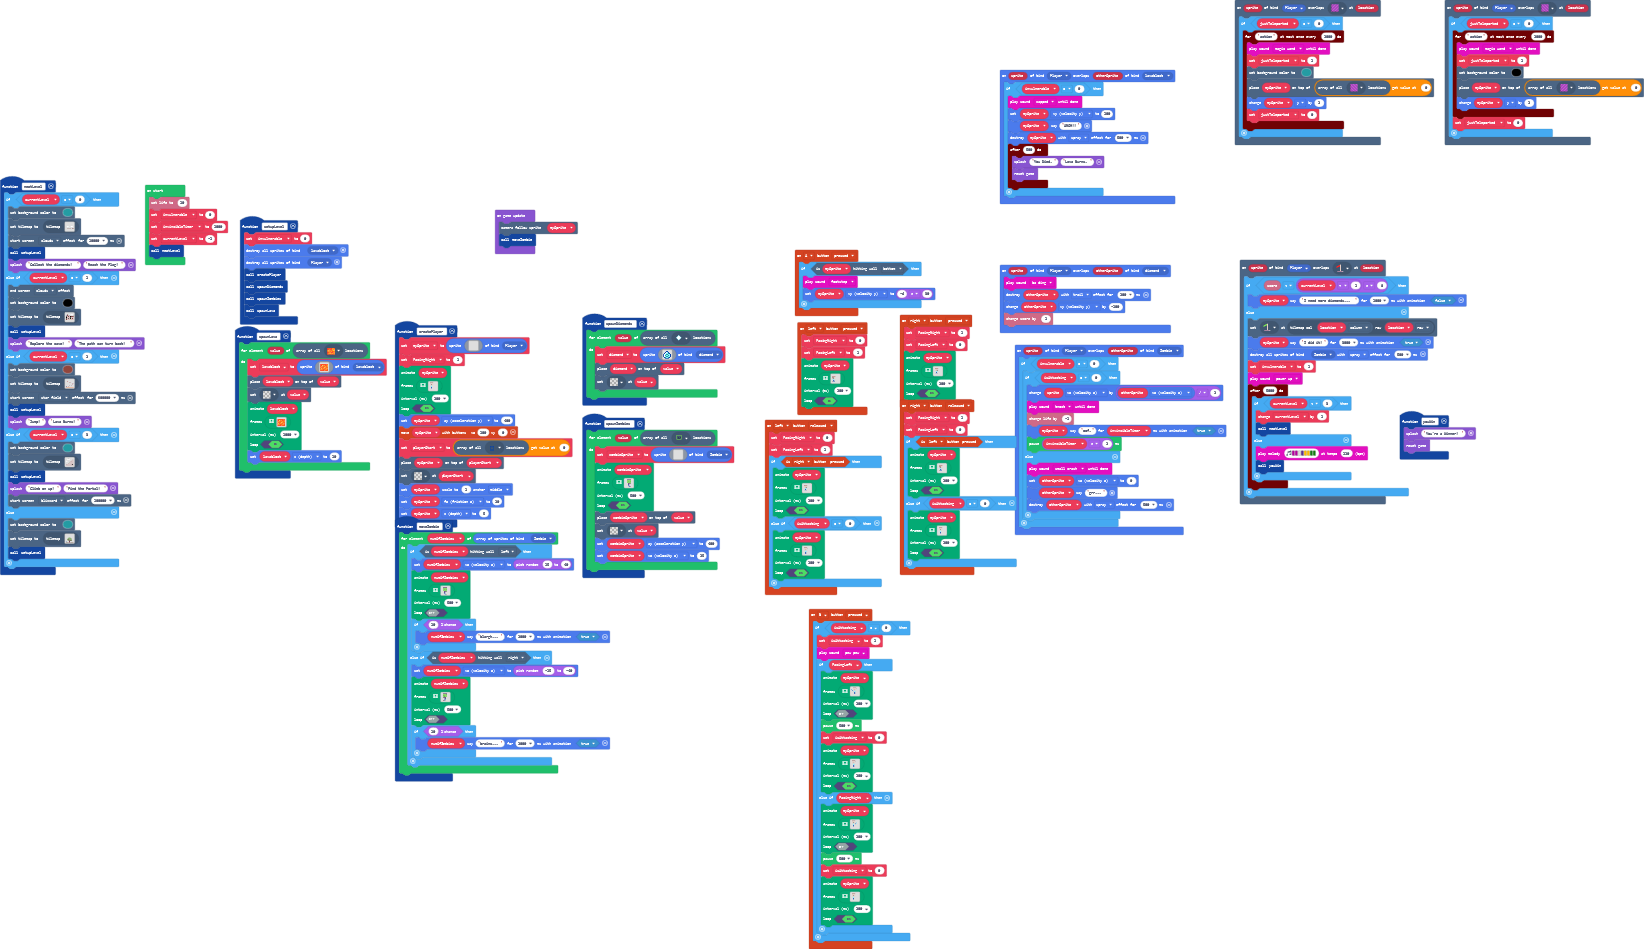
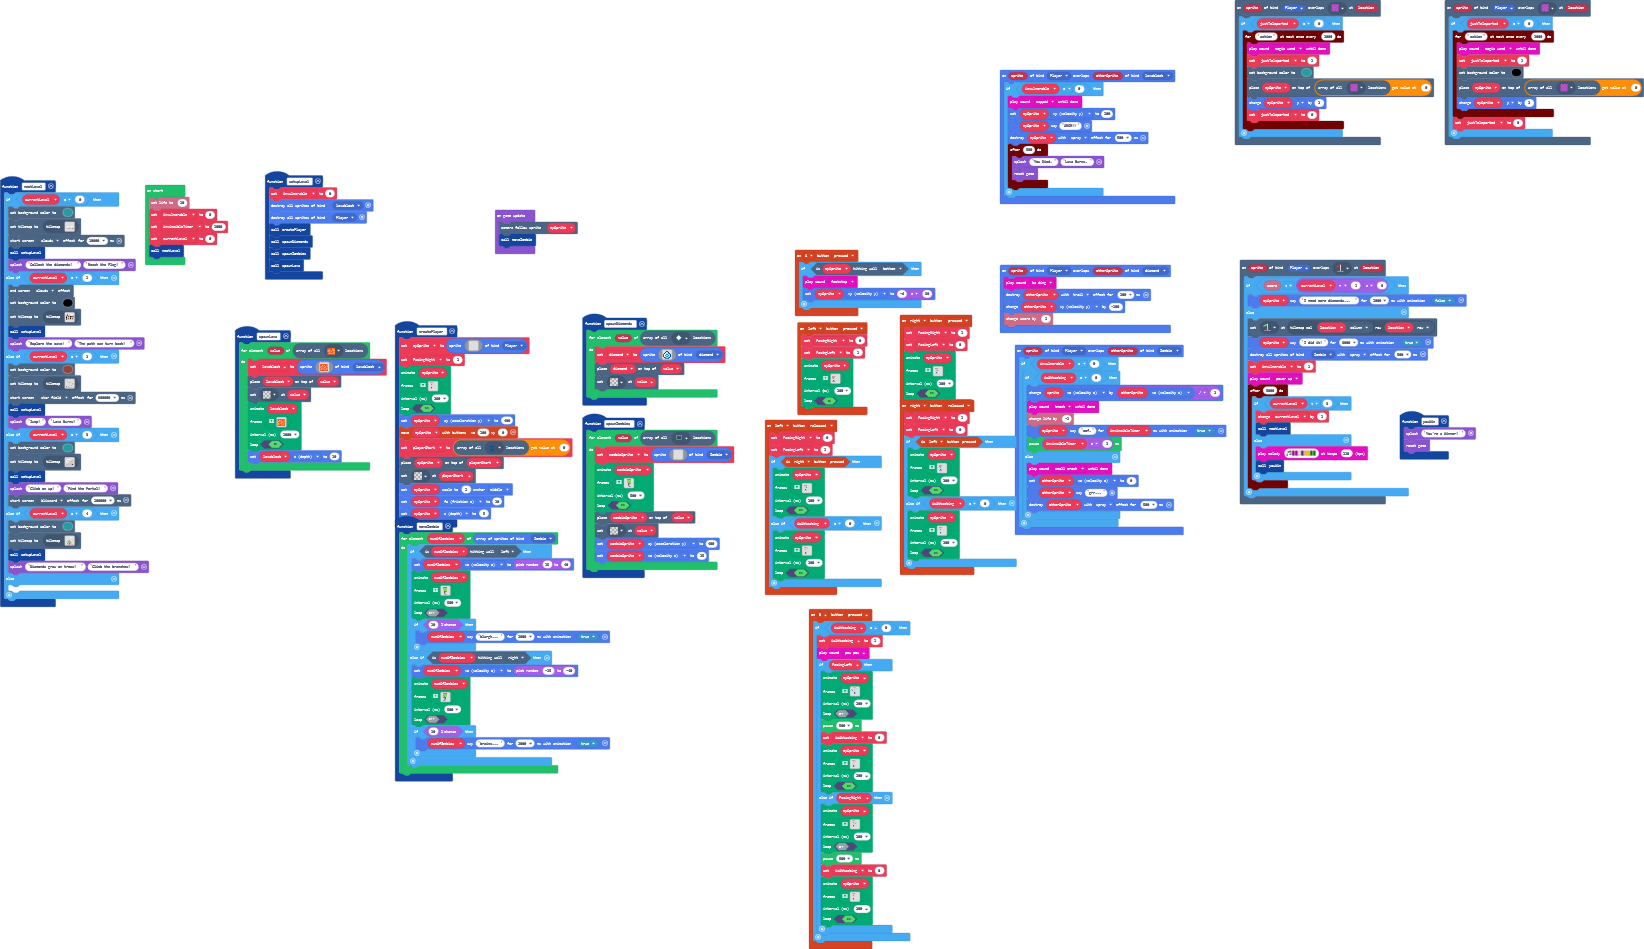
Level 5 added

Changed region(s): [[0.1241, 0.1834, 0.2482, 0.3667], [0.0, 0.5195, 0.0931, 0.6417]]

diff --git a/tilemap.g.ts b/tilemap.g.ts
@@ -74,6 +74,8 @@ namespace myTiles {
     export const tile35 = image.ofBuffer(hex``);
     //% fixedInstance jres blockIdentity=images._tile
     export const tile36 = image.ofBuffer(hex``);
+    //% fixedInstance jres blockIdentity=images._tile
+    export const tile37 = image.ofBuffer(hex``);
 
     helpers._registerFactory("tilemap", function(name: string) {
         switch(helpers.stringTrim(name)) {
@@ -232,24 +234,28 @@ namespace myTiles {
 . . . . . . . . . . . . . . . . 
 `, [myTiles.transparency16], TileScale.Sixteen);
             case "level6":
-            case "level6":return tiles.createTilemap(hex`1000100000000000000000000000000000000000000000000000000000000000000000000000000000000000000000000000000000000000000000000000000000000000000000000000000000000000000000000000000000030303030000000000000000000000030303030303030000000000000000030303030303030300000000000000030302030303030303000000000000000303030203030303030300000000000000030302030303030203000000000000000000030202020203030000000000040000000002020000000000000000000000000000020200000000000000000300000300000202000003000003000001010101010101010101010101010101`, img`
-. . . . . . . . . . . . . . . . 
-. . . . . . . . . . . . . . . . 
-. . . . . . . . . . . . . . . . 
-. . . . . . . . . . . . . . . . 
-. . . . . . . . . . . . . . . . 
-. . . . . . . . . . . . . . . . 
-. . . . . . . . . . . . . . . . 
-. . . . . . . . . . . . . . . . 
-. . . . 2 . . . . . . . . . . . 
-. . . . . 2 . . . . . . . . . . 
-. . . . . 2 . . . . 2 . . . . . 
-. . . . . . 2 2 2 2 . . . . . . 
-. . . . . . 2 2 . . . . . . . . 
-. . . . . . 2 2 . . . . . . . . 
-. . . . . . 2 2 . . . . . . . . 
-2 2 2 2 2 2 2 2 2 2 2 2 2 2 2 2 
-`, [myTiles.transparency16,myTiles.tile10,myTiles.tile35,myTiles.tile36,myTiles.tile13], TileScale.Sixteen);
[1 lines of base64/hex data omitted]
+................
+................
+................
+................
+................
+................
+.....2..........
+.2..............
+.......2.....2..
+....2.....2.....
+................
+..2.............
+....2......2....
+.....2..........
+.....2....2.....
+.......222......
+................
+......2.........
+2..2......2..2..
+2222..22..222222
+`, [myTiles.transparency16,myTiles.tile10,myTiles.tile35,myTiles.tile36,myTiles.tile13,myTiles.tile37,myTiles.tile25,myTiles.tile24,myTiles.tile8,myTiles.tile15,myTiles.tile16,myTiles.tile14,myTiles.tile4,myTiles.tile5,myTiles.tile26], TileScale.Sixteen);
         }
         return null;
     })
@@ -329,6 +335,8 @@ namespace myTiles {
             case "tile35":return tile35;
             case "myTile9":
             case "tile36":return tile36;
+            case "myTile10":
+            case "tile37":return tile37;
         }
         return null;
     })

diff --git a/main.ts b/main.ts
@@ -255,10 +255,13 @@ function nextLevel () {
         setupLevel()
         game.splash("Climb on up!", "Find the Portal!")
         effects.blizzard.startScreenEffect(100000)
-    } else {
+    } else if (currentLevel == 4) {
         scene.setBackgroundColor(6)
         tiles.setCurrentTilemap(tilemap`level6`)
         setupLevel()
+        game.splash("Diamonds grow on trees!", "Climb the branches!")
+    } else {
+    	
     }
 }
 scene.onOverlapTile(SpriteKind.Player, assets.tile`myTile2`, function (sprite, location) {
@@ -357,7 +360,7 @@ let invulnerable = 0
 info.setLife(10)
 invulnerable = 0
 invincibleTimer = 1000
-currentLevel = -1
+currentLevel = 0
 nextLevel()
 game.onUpdate(function () {
     scene.cameraFollowSprite(mySprite)

diff --git a/images.g.ts b/images.g.ts
@@ -599,5 +599,12 @@ namespace myImages {
         return null;
     })
 
+    helpers._registerFactory("song", function(name: string) {
+        switch(helpers.stringTrim(name)) {
+
+        }
+        return null;
+    })
+
 }
 // Auto-generated code. Do not edit.
